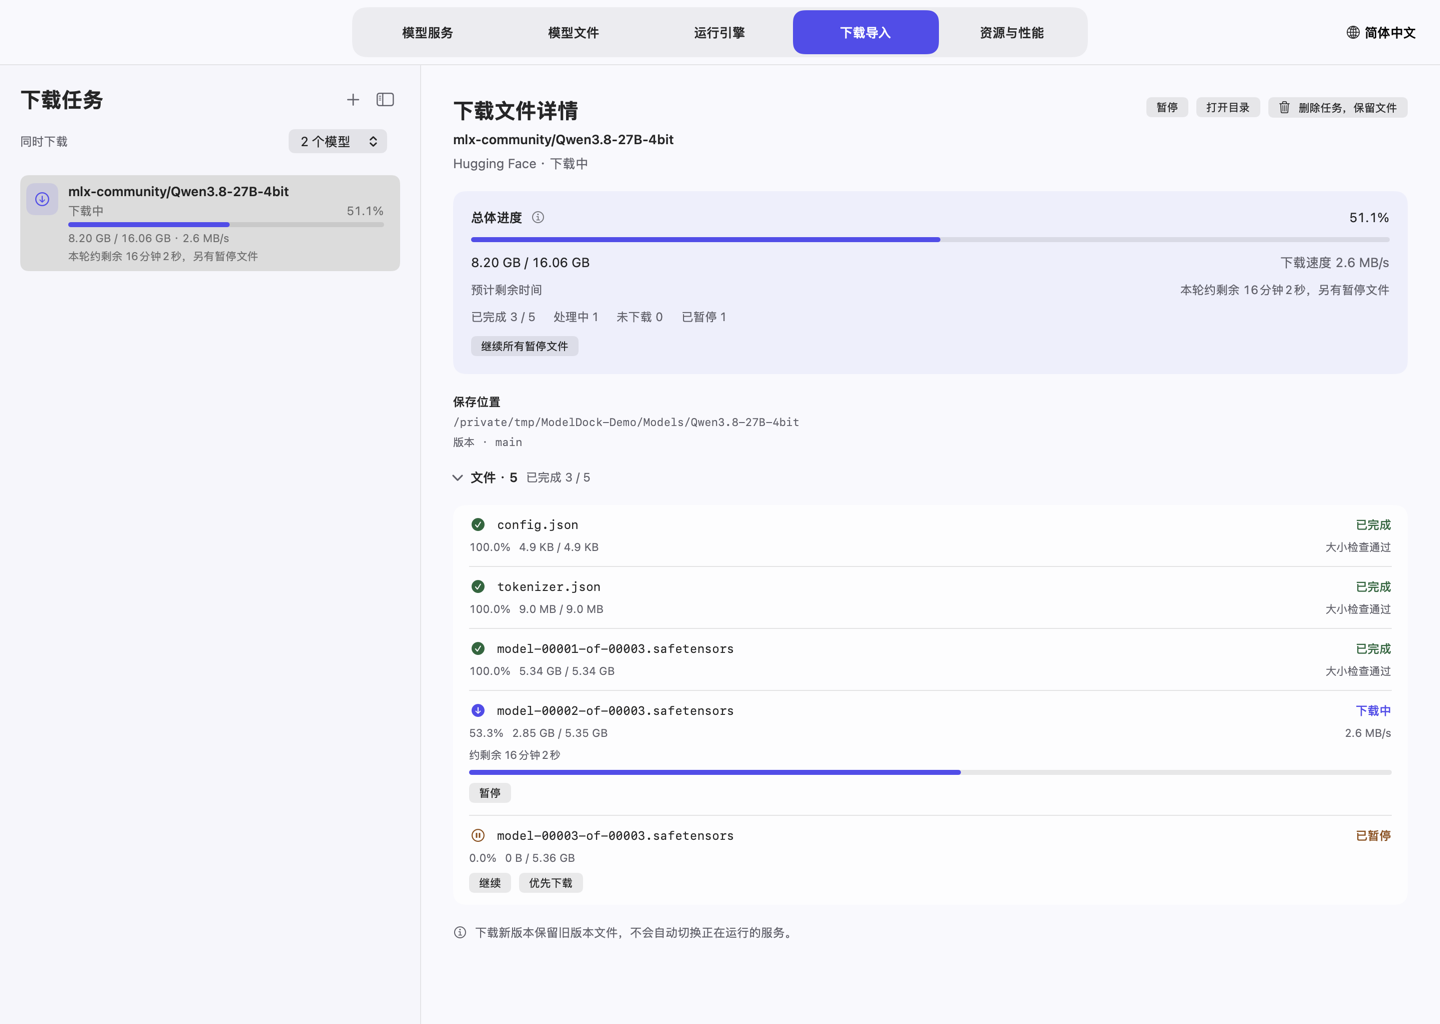
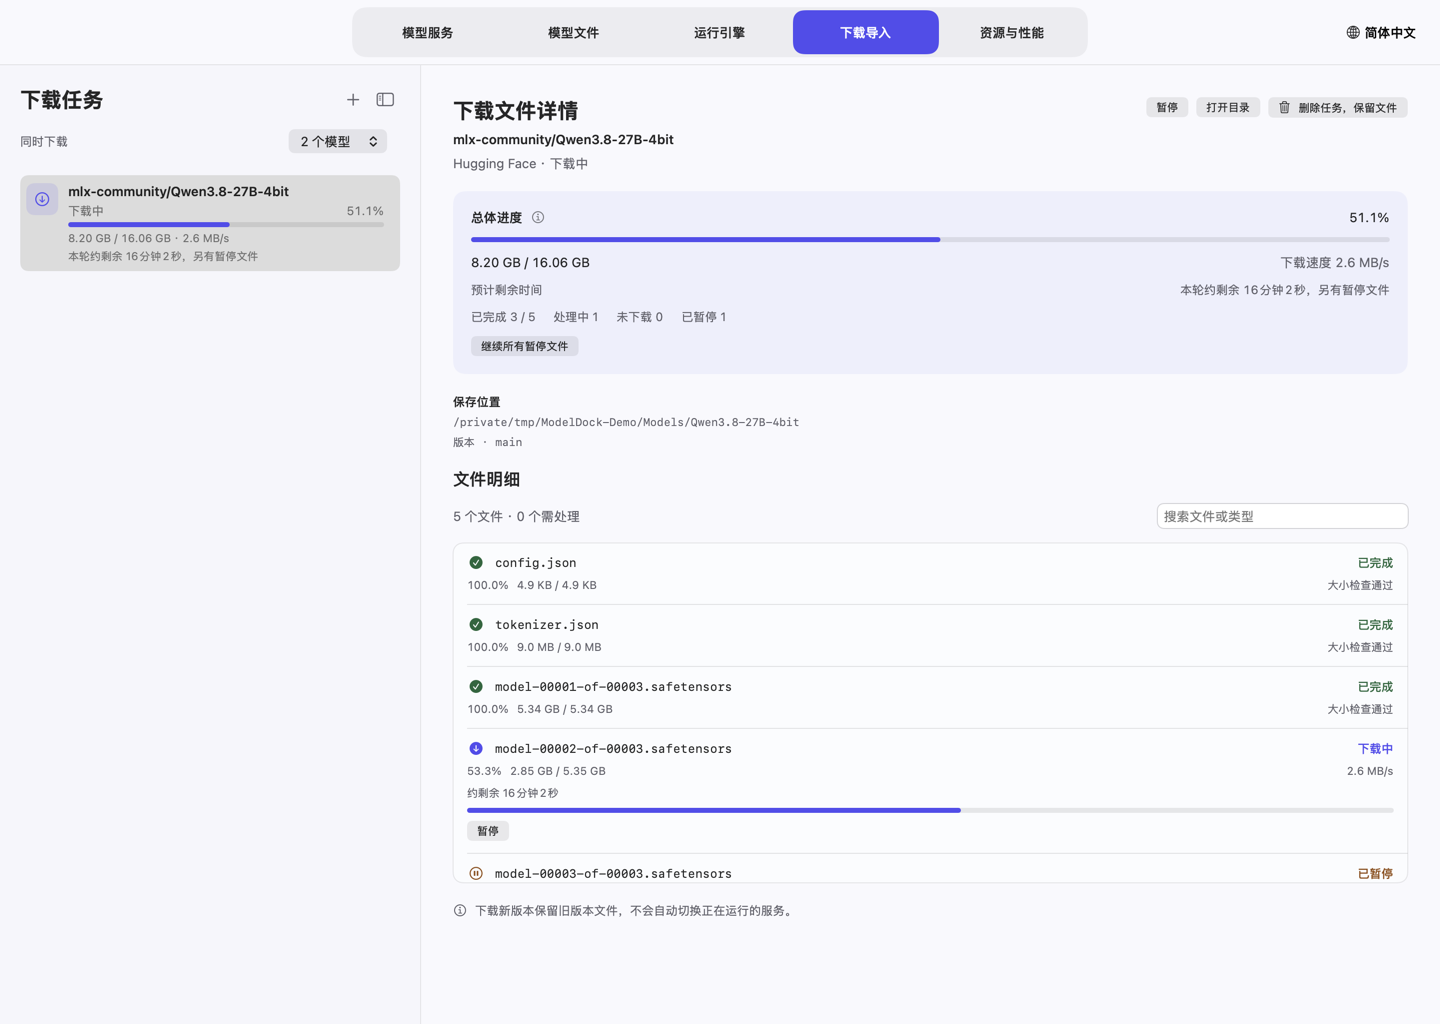
Launch at login setting and file details layout for download tasks
- Settings → General → Startup: launch ModelDock at login via the system login item (off by default)
- Download task files use the model file details layout: counts, search, fixed-height scrolling list
- Taller settings window; docs, screenshots and website guide updated

diff --git a/Sources/DownloadFileDetails.swift b/Sources/DownloadFileDetails.swift
@@ -56,24 +56,29 @@ struct DownloadFileDetails: View {
                 Text(job.displayLocation).font(.system(size: TypeScale.caption, design: .monospaced)).foregroundStyle(Theme.muted).textSelection(.enabled)
                 if job.site != .direct { Text(verbatim: L10n.text("版本 · " + job.revision)).font(.system(size: TypeScale.caption, design: .monospaced)).foregroundStyle(Theme.muted).textSelection(.enabled) }
             }
-            let expanded = downloads.fileListExpanded[job.id] ?? (job.state != .complete)
-            let finished = rows.filter { $0.state == .complete }.count
-            // 文件较多时列表很长：做成可折叠，标题行显示完成情况。
-            Button { downloads.fileListExpanded[job.id] = !expanded } label: {
-                HStack(spacing: 8) {
-                    Image(systemName: "chevron.right").font(.system(size: 12, weight: .semibold)).rotationEffect(.degrees(expanded ? 90 : 0)).foregroundStyle(Theme.muted)
-                    Text(verbatim: L10n.text("文件 · \(rows.count)")).font(.system(size: TypeScale.body, weight: .semibold))
-                    Text(verbatim: L10n.text("已完成 \(finished) / \(rows.count)")).font(.system(size: TypeScale.callout)).foregroundStyle(Theme.muted)
+            // 与「模型文件 → 文件明细」一致：标题、计数与搜索，列表在固定高度内滚动。
+            let shown = downloads.fileSearch.isEmpty ? rows : rows.filter { $0.file.path.localizedCaseInsensitiveContains(downloads.fileSearch) || L10n.text($0.state.rawValue).localizedCaseInsensitiveContains(downloads.fileSearch) }
+            VStack(alignment: .leading, spacing: 15) {
+                Text(verbatim: L10n.text("文件明细")).font(.system(size: TypeScale.section, weight: .semibold))
+                HStack {
+                    Text(verbatim: L10n.text("\(rows.count) 个文件 · \(rows.filter { $0.state == .failed }.count) 个需处理")).font(.system(size: TypeScale.body)).foregroundStyle(Theme.muted)
                     Spacer()
-                }.contentShape(Rectangle())
-            }.buttonStyle(.plain).accessibilityLabel(L10n.text(expanded ? "收起文件列表" : "展开文件列表"))
-            if expanded {
-            VStack(spacing: 0) {
-                ForEach(rows) { progress in
-                    DownloadFileRow(progress: progress, controlsEnabled: downloads.canControlFiles(job.id), pause: { downloads.pauseFile(job.id, path: progress.id) }, resume: { downloads.resumeFile(job.id, path: progress.id) }, prioritize: { downloads.resumeFile(job.id, path: progress.id, first: true) })
-                    if progress.id != rows.last?.id { Divider() }
+                    TextField(L10n.text("搜索文件或类型"), text: $downloads.fileSearch).textFieldStyle(.roundedBorder).frame(maxWidth: 250).accessibilityIdentifier("download-file-search")
                 }
-            }.padding(.horizontal, 16).background(Theme.surface.opacity(0.6), in: RoundedRectangle(cornerRadius: 12))
+                if shown.isEmpty { Text(verbatim: L10n.text("没有匹配的文件。")).font(.system(size: TypeScale.body)).foregroundStyle(Theme.muted).padding(.vertical, 20) }
+                else {
+                    ScrollView {
+                        LazyVStack(spacing: 0) {
+                            ForEach(shown) { progress in
+                                DownloadFileRow(progress: progress, controlsEnabled: downloads.canControlFiles(job.id), pause: { downloads.pauseFile(job.id, path: progress.id) }, resume: { downloads.resumeFile(job.id, path: progress.id) }, prioritize: { downloads.resumeFile(job.id, path: progress.id, first: true) })
+                                    .padding(.horizontal, 14)
+                                if progress.id != shown.last?.id { Divider().padding(.leading, 14) }
+                            }
+                        }
+                    }.frame(height: min(340, max(120, CGFloat(shown.count) * 76)))
+                        .background(Theme.surface.opacity(0.5), in: RoundedRectangle(cornerRadius: 10))
+                        .overlay { RoundedRectangle(cornerRadius: 10).stroke(Theme.line, lineWidth: 1) }
+                }
             }
             if let error = job.error { Text(verbatim: L10n.text(error)).font(.system(size: TypeScale.body)).foregroundStyle(Theme.errorText).textSelection(.enabled) }
             Label(L10n.text(job.repairTarget != nil ? "修复只替换原版本中的这个文件；其他文件保留，使用中的文件会拦截。" : "下载新版本保留旧版本文件，不会自动切换正在运行的服务。"), systemImage: "info.circle").font(.system(size: TypeScale.callout)).foregroundStyle(Theme.muted)

diff --git a/website/guide.html b/website/guide.html
@@ -145,7 +145,7 @@ https://huggingface.co/mlx-community/Qwen3.8-27B-4bit
 <p>Web search is a client/tool capability. Enable the offered search-tool integration where supported and configure any required tool credentials. It is not enabled by adding a parameter to ordinary text generation alone.</p>
 <h2 id="9-monitor-from-the-menu-bar">9. Monitor from the menu bar</h2>
 <p><img alt="System and service resources" src="assets/en-resources.png" /></p>
-<p>Choose <strong>Settings → Appearance → Menu bar → Icon only</strong> to keep the menu-bar item narrow, which helps on displays with a camera notch. <strong>Settings → General → Notifications</strong> sends macOS notifications when a download finishes or fails and when a service becomes ready, fails to start, or stops unexpectedly.</p>
+<p>Choose <strong>Settings → Appearance → Menu bar → Icon only</strong> to keep the menu-bar item narrow, which helps on displays with a camera notch. Turn on <strong>Settings → General → Startup → Launch ModelDock at login</strong> to open ModelDock after you log in and start services marked <strong>Start with ModelDock</strong>; when off, it does not open automatically. It is added to Login Items in System Settings, so keep ModelDock in Applications before turning it on. <strong>Settings → General → Notifications</strong> sends macOS notifications when a download finishes or fails and when a service becomes ready, fails to start, or stops unexpectedly.</p>
 <p>The menu-bar panel shows system CPU, memory, disk and library usage, service resources, downloads that are still in progress or need attention, and recent measurements when available. Click a download's management action to open the relevant task.</p>
 <p>Clicking inside the panel keeps it usable; clicking another window or desktop area closes it. Clicking its status icon toggles the panel. <strong>Open Management Interface</strong> reopens the main window. Closing the main window keeps background work running by default; <strong>Quit ModelDock</strong> pauses downloads and stops monitoring while independently running model services remain available.</p>
 <p>Performance values labeled as measurements come from an actual benchmark or supported service logs. Unknown measurements remain unavailable; do not compare startup estimates with generation throughput.</p>

diff --git a/Sources/LoginItem.swift b/Sources/LoginItem.swift
@@ -1,0 +1,39 @@
+import Foundation
+import SwiftUI
+import ServiceManagement
+
+/// “登录时启动 ModelDock”：直接读写系统登录项，开关状态以系统为准，不另存设置。
+@MainActor
+final class LoginItemController: ObservableObject {
+    @Published private(set) var status: SMAppService.Status = SMAppService.mainApp.status
+    @Published var error: String?
+    var enabled: Bool { status == .enabled || status == .requiresApproval }
+
+    func refresh() { status = SMAppService.mainApp.status }
+
+    func set(_ on: Bool) {
+        error = nil
+        do {
+            if on { try SMAppService.mainApp.register() } else { try SMAppService.mainApp.unregister() }
+        } catch { self.error = L10n.text("登录项设置失败：") + error.localizedDescription }
+        refresh()
+    }
+}
+
+@MainActor struct LoginItemSettings: View {
+    @ObservedObject var login: LoginItemController
+    var body: some View {
+        Toggle(L10n.text("登录 Mac 时启动 ModelDock"), isOn: Binding(get: { login.enabled }, set: { login.set($0) })).accessibilityIdentifier("launch-at-login")
+        Text(verbatim: L10n.text(login.enabled
+             ? "登录后自动打开 ModelDock；标记为“随 ModelDock 启动”的服务会随之启动。"
+             : "关闭时不会自动打开 ModelDock。开启后会加入系统设置的“登录项”。"))
+            .font(.system(size: TypeScale.body)).foregroundStyle(Theme.muted).fixedSize(horizontal: false, vertical: true)
+        if login.status == .requiresApproval {
+            HStack {
+                Text(verbatim: L10n.text("需要在系统设置的“登录项”中允许 ModelDock。")).font(.system(size: TypeScale.callout)).foregroundStyle(Theme.warningText)
+                Button(L10n.text("打开登录项设置")) { SMAppService.openSystemSettingsLoginItems() }
+            }
+        }
+        if let error = login.error { Text(verbatim: error).font(.system(size: TypeScale.callout)).foregroundStyle(Theme.errorText) }
+    }
+}

diff --git a/website/guide.zh-CN.html b/website/guide.zh-CN.html
@@ -145,7 +145,7 @@ https://huggingface.co/mlx-community/Qwen3.8-27B-4bit
 <p>Web search 是客户端工具能力。支持时启用提供的搜索工具接入，并配置所需凭证；普通生成请求多加一个参数不会自动获得联网搜索。</p>
 <h2 id="9">9. 菜单栏管理与性能</h2>
 <p><img alt="系统及服务资源" src="assets/zh-Hans-resources.png" /></p>
-<p>在“设置 → 外观 → 菜单栏显示”中选择<strong>仅图标</strong>，可让菜单栏项更窄，在带刘海的屏幕上不易被遮挡。“设置 → 通用 → 通知”会在下载完成或失败、服务就绪、启动失败或意外退出时发送 macOS 通知。</p>
+<p>在“设置 → 外观 → 菜单栏显示”中选择<strong>仅图标</strong>，可让菜单栏项更窄，在带刘海的屏幕上不易被遮挡。“设置 → 通用 → 启动”中开启“登录 Mac 时启动 ModelDock”，登录后自动打开 ModelDock，并启动标记为“随 ModelDock 启动”的服务；关闭则不自动打开。它会加入系统设置的“登录项”，建议把 ModelDock 放在“应用程序”文件夹后再开启。“设置 → 通用 → 通知”会在下载完成或失败、服务就绪、启动失败或意外退出时发送 macOS 通知。</p>
 <p>菜单栏面板显示 CPU、内存、磁盘、模型库、服务资源、进行中或需要处理的下载任务及已有测量结果。下载任务的管理入口会跳转到对应任务。</p>
 <p>面板内操作正常响应，点击其他窗口或桌面区域会自动收起；点击状态图标切换展开/关闭。“打开管理界面”重新显示主窗口。默认关闭主窗口继续后台任务；“退出模型管理”会暂停下载、停止监测，独立运行的模型服务继续可用。</p>
 <p>标为实测的性能来自实际测量或支持的运行日志，没有数据时不编造数值。启动估算进度与生成吞吐量是不同指标，不应混用。</p>

diff --git a/Sources/Preferences.swift b/Sources/Preferences.swift
@@ -82,6 +82,9 @@ struct PreferencesView: View {
                         Text(verbatim: L10n.text("默认使用英语。切换立即生效，设置会自动保存。"))
                             .font(.system(size: TypeScale.body)).foregroundStyle(Theme.muted).fixedSize(horizontal: false, vertical: true)
                     }
+                    Section(L10n.text("启动")) {
+                        LoginItemSettings(login: store.loginItem).onAppear { store.loginItem.refresh() }
+                    }
                     Section(L10n.text("关闭主界面时")) {
                         Picker(L10n.text("关闭行为"), selection: $store.windowCloseBehavior) {
                             Text(verbatim: L10n.text("保持程序后台运行（默认）")).tag(WindowCloseBehavior.keepRunning)
@@ -106,7 +109,7 @@ struct PreferencesView: View {
                 Spacer()
                 Button(L10n.text("完成"), action: close).keyboardShortcut(.defaultAction)
             }.padding(.horizontal, 24).padding(.bottom, 20)
-        }.frame(width: 580, height: 560).background(Theme.background).environment(\.locale, L10n.locale)
+        }.frame(width: 580, height: 640).background(Theme.background).environment(\.locale, L10n.locale)
     }
 }
 

diff --git a/Sources/Main.swift b/Sources/Main.swift
@@ -143,7 +143,7 @@ final class AppDelegate: NSObject, NSApplicationDelegate, NSWindowDelegate, NSPo
     @objc func showSettings() {
         statusPopover.performClose(nil)
         if settingsWindow == nil {
-            let preferences = NSWindow(contentRect: NSRect(x: 0, y: 0, width: 580, height: 560), styleMask: [.titled, .closable], backing: .buffered, defer: false)
+            let preferences = NSWindow(contentRect: NSRect(x: 0, y: 0, width: 580, height: 640), styleMask: [.titled, .closable], backing: .buffered, defer: false)
             preferences.title = L10n.text("设置"); preferences.isReleasedWhenClosed = false; preferences.delegate = self
             preferences.contentView = NSHostingView(rootView: PreferencesView(store: store, close: { [weak self] in self?.settingsWindow?.performClose(nil) }))
             preferences.backgroundColor = .windowBackgroundColor

diff --git a/Sources/DownloadController.swift b/Sources/DownloadController.swift
@@ -22,8 +22,8 @@ final class DownloadController: ObservableObject {
     @Published var token = ""
     @Published var destination = Scanner.defaultRoot.path
     @Published var listing: RemoteListing?
-    /// 任务详情中文件列表的展开状态；未设置时下载中展开、已完成收起。
-    @Published var fileListExpanded: [String: Bool] = [:]
+    /// 任务详情文件明细的搜索词。
+    @Published var fileSearch = ""
     @Published var selected = Set<String>()
     @Published var resolving = false
     @Published var message: String?

diff --git a/Sources/Store.swift b/Sources/Store.swift
@@ -60,6 +60,7 @@ final class AppStore: ObservableObject {
     @Published var chat: ChatSession?
     @Published var servicePresets: [ServicePreset] = []
     let modelSearch = ModelSearchController()
+    let loginItem = LoginItemController()
     /// 由应用启动流程设置；首次扫描完成后启动标记为“随 App 启动”的服务。
     var autoStartOnLaunch = false
     var idleTimer: Timer?

diff --git a/docs/USER_GUIDE.md b/docs/USER_GUIDE.md
@@ -192,7 +192,7 @@ Web search is a client/tool capability. Enable the offered search-tool integrati
 
 ![System and service resources](assets/images/en-resources.png)
 
-Choose **Settings → Appearance → Menu bar → Icon only** to keep the menu-bar item narrow, which helps on displays with a camera notch. **Settings → General → Notifications** sends macOS notifications when a download finishes or fails and when a service becomes ready, fails to start, or stops unexpectedly.
+Choose **Settings → Appearance → Menu bar → Icon only** to keep the menu-bar item narrow, which helps on displays with a camera notch. Turn on **Settings → General → Startup → Launch ModelDock at login** to open ModelDock after you log in and start services marked **Start with ModelDock**; when off, it does not open automatically. It is added to Login Items in System Settings, so keep ModelDock in Applications before turning it on. **Settings → General → Notifications** sends macOS notifications when a download finishes or fails and when a service becomes ready, fails to start, or stops unexpectedly.
 
 The menu-bar panel shows system CPU, memory, disk and library usage, service resources, downloads that are still in progress or need attention, and recent measurements when available. Click a download's management action to open the relevant task.
 

diff --git a/docs/USER_GUIDE.zh-CN.md b/docs/USER_GUIDE.zh-CN.md
@@ -192,7 +192,7 @@ Web search 是客户端工具能力。支持时启用提供的搜索工具接入
 
 ![系统及服务资源](assets/images/zh-Hans-resources.png)
 
-在“设置 → 外观 → 菜单栏显示”中选择**仅图标**，可让菜单栏项更窄，在带刘海的屏幕上不易被遮挡。“设置 → 通用 → 通知”会在下载完成或失败、服务就绪、启动失败或意外退出时发送 macOS 通知。
+在“设置 → 外观 → 菜单栏显示”中选择**仅图标**，可让菜单栏项更窄，在带刘海的屏幕上不易被遮挡。“设置 → 通用 → 启动”中开启“登录 Mac 时启动 ModelDock”，登录后自动打开 ModelDock，并启动标记为“随 ModelDock 启动”的服务；关闭则不自动打开。它会加入系统设置的“登录项”，建议把 ModelDock 放在“应用程序”文件夹后再开启。“设置 → 通用 → 通知”会在下载完成或失败、服务就绪、启动失败或意外退出时发送 macOS 通知。
 
 菜单栏面板显示 CPU、内存、磁盘、模型库、服务资源、进行中或需要处理的下载任务及已有测量结果。下载任务的管理入口会跳转到对应任务。
 
